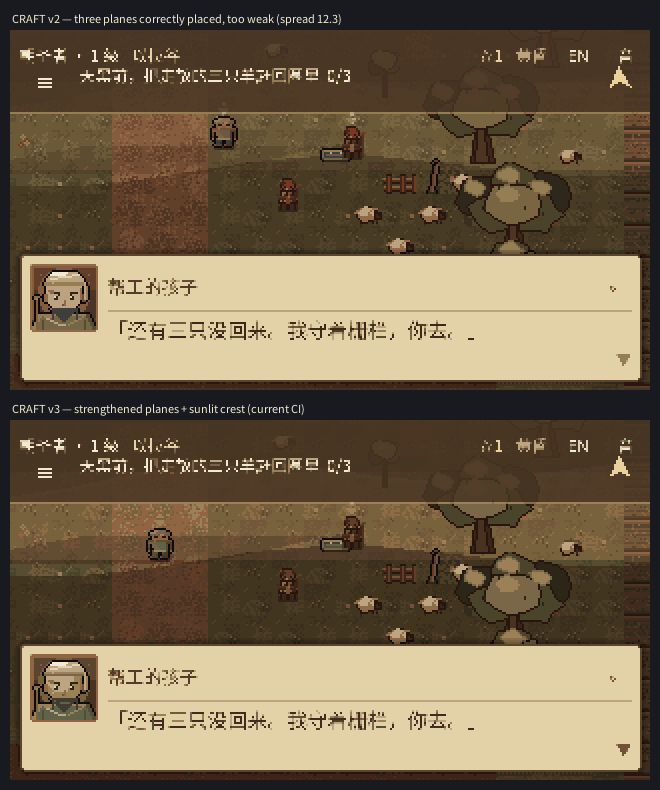
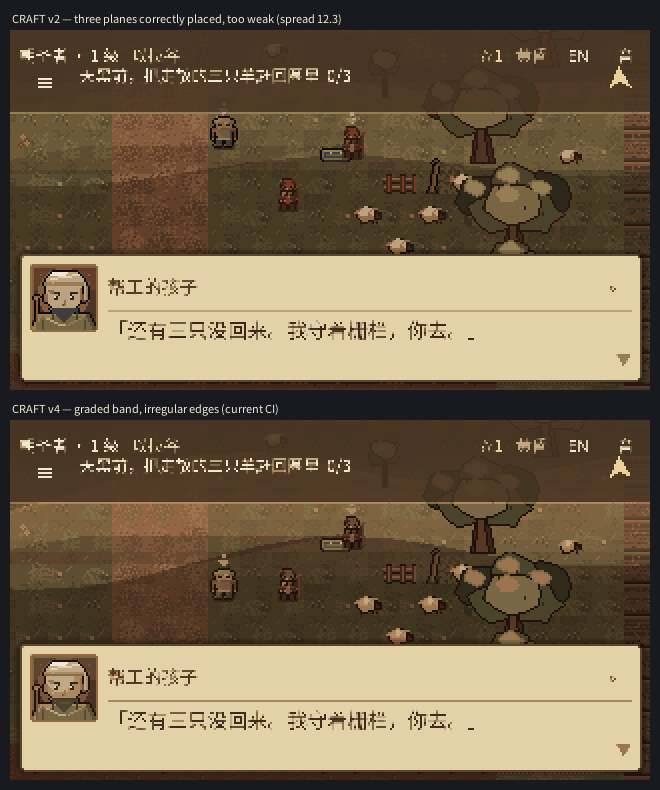
DOCS+EVIDENCE: craft-pass report, final real-engine metrics and promoted baseline
Records the four measured real CI frames (8.0 -> 12.3 -> 17.1 -> 17.7)
against the palette-only 10.6 and classic 20.1, including the failed v1
and the visually rejected v3 with its hard stripe.

- docs/ART-RESET.md: corrected the hexrgb-garbled four-way metrics with a
  dated correction note; updated the acceptance table and file index; added
  section 12 with artefacts, iteration table, the audit finding that the
  classic's 20.1 is inflated by a HUD scrim (not depth), honest limitations,
  and the external manual pixel art still required.
- docs/ART_DIRECTION.md / docs/ITERATION.md / DEVELOPMENT_BACKLOG.md:
  appended the craft-pass update and marked #19/#20/#22 partial for ONE
  scene only; #23 notes only baseline_16 was regenerated.
- Regenerated 04/05/08/09/10/11 evidence sheets from the final CI frames
  and real_engine_metrics.json.
- Promoted baseline_16 from CI 42784090190; visual_diff now 0.0000.

Verdict unchanged: visual overhaul NOT complete. Default build still classic,
no PR, no merge, no deploy.

diff --git a/tools/art_reset/measure_real_engine.py b/tools/art_reset/measure_real_engine.py
@@ -17,6 +17,9 @@ Outputs:
     docs/art-reset/diagnosis/04_before_after_real_engine.png
     docs/art-reset/diagnosis/05_before_after_grayscale.png
     docs/art-reset/diagnosis/08_palette_vs_craft.png
+    docs/art-reset/diagnosis/09_craft_iteration.png
+    docs/art-reset/diagnosis/10_craft_iteration2.png
+    docs/art-reset/diagnosis/11_craft_iteration3.png
     docs/art-reset/comparison/real_engine_metrics.json
 """
 from __future__ import annotations

diff --git a/docs/ART-RESET.md b/docs/ART-RESET.md
@@ -162,11 +162,18 @@ device pass is still outstanding.
 
 | Panel | colours | luma mean / std | sat | edge density | world luma | **value spread** | HUD / UI | world↔UI sep |
 |---|---|---|---|---|---|---|---|---|
-| Current | 48 | 56.6 / 41.6 | 0.559 | 0.206 | 77.3 | 20.1 | 39.5 / 32.2 | 45.0 |
-| A | 52 | 118.2 / **70.7** | **0.668** | 0.209 | 165.2 | **31.6** | 54.8 / 63.1 | 102.1 |
-| B | 66 | 85.0 / 47.6 | 0.330 | 0.263 | 111.8 | 22.4 | 38.0 / 59.0 | 52.8 |
-| C | 67 | 139.7 / 51.6 | 0.485 | **0.292** | 128.9 | **18.7** | 67.5 / 182.4 | 53.5 |
-| C+ refined | 67 | 139.1 / 52.9 | 0.494 | 0.311 | 127.8 | 21.1 | 67.5 / 182.4 | 54.6 |
+| Current | 48 | 57.1 / 41.5 | 0.560 | 0.205 | 77.7 | 20.3 | 39.4 / 32.1 | 45.6 |
+| A | 59 | 116.7 / **72.4** | **0.632** | 0.210 | 165.1 | **31.5** | 52.1 / 59.5 | 105.6 |
+| B | 76 | 84.9 / 48.0 | 0.403 | 0.264 | 111.8 | 22.4 | 39.9 / 58.0 | 53.8 |
+| C | 77 | 144.2 / 56.4 | 0.417 | **0.317** | 128.9 | **18.7** | 68.9 / 195.5 | 66.6 |
+| C+ refined | 77 | 143.6 / 57.8 | 0.427 | 0.334 | 127.8 | 21.2 | 68.9 / 195.5 | 67.8 |
+
+> **Correction (2026-11-10).** `build_prototypes.py::hexrgb()` sliced the wrong
+> bytes (`h[1:3]` instead of `h[2:4]`), so the prototype UI accent colours were
+> quantised from garbled values. The 35 sheets and this table were regenerated
+> with the fix. The selection and its critique are unchanged; the earlier
+> numbers printed in the first version of this report are superseded. This is
+> recorded rather than quietly patched.
 
 ### Honest critique (1–5, 5 best)
 
@@ -187,17 +194,18 @@ Specific failings, not generic praise:
   largely from a **bright blue sky strip that breaks the orthographic top-down
   map**. It is a generic fantasy meadow: no Levantine architecture, no biblical
   dress, saturation 0.668 pushes it toward candy. Its trees are still soft
-  painted masses, not pixel clusters.
+  painted masses, not pixel clusters. Its saturation 0.632 is the highest of
+  the four and pushes it toward candy.
 - **B** has the best real depth — long shadows, atmospheric haze, a clear focal
   path — but it is **too dark and too desaturated for a morning shepherd field**
-  (sat 0.330), its near-silhouette foreground occludes walkable ground, and the
+  (sat 0.403), its near-silhouette foreground occludes walkable ground, and the
   characters are small dark dots. Its mood belongs to the confrontation in the
   valley, not to the flock.
-- **C** is the most detailed (edge 0.292) and the most coherent, but its detail is
+- **C** is the most detailed (edge 0.317) and the most coherent, but its detail is
   a weakness: **busy stone/grass texture with the weakest large-scale value
   hierarchy (18.7)**, so the player and the sheep are hard to find. Its parchment
   UI is the only one that belongs to the world, yet it is bright enough to
-  compete with the ground (UI luma 182.4).
+  compete with the ground (UI luma 195.5).
 - **Current** is not merely dark: its world is a single value plane with two
   black UI holes, geometric props and 16px figures with no readable clothing.
 
@@ -217,7 +225,7 @@ is a combination, not a fourth style:
    the `C+` refinement (`comparison/selected_refinement_native.png`): atmospheric
    darkening at the far edge, a brighter focal middle ground, a darker near edge,
    mild contrast S-curve, re-snapped to the same palette. Value spread improves
-   **18.7 → 21.1** with no new detail.
+   **18.7 → 21.2** with no new detail.
 2. **A's clean, high-contrast silhouettes and consistent 1px outline** for the
    player and interactables — to be applied by hand-authored sprites (section 6).
 3. **Background texture suppression** around the player, so readability comes
@@ -263,6 +271,10 @@ This is the most important negative result in the whole milestone: **a better
 palette and a better UI do not create depth.** They made the world more uniform
 in value. Colour cannot substitute for hand-authored shapes, contact shadows and
 layered geometry. That is why section 9 does not claim success.
+
+> This table is the **palette-only checkpoint** (CI `42771321630`), preserved as
+> the baseline that the craft pass had to beat. Section 12 reports the later
+> real-engine frames and the measured recovery.
 
 ---
 
@@ -350,14 +362,14 @@ made.
 
 | Criterion | State | Evidence / reason |
 |---|---|---|
-| Character silhouettes distinctive | ❌ **NOT MET** | Sprites unchanged; 16px boxy figures still read as pegs. |
-| Important objects readable | ⚠ **PARTIAL** | UI text and nameplate improved; sheep still read as pebbles. |
-| Colour and value hierarchy intentional | ⚠ **PARTIAL** | Global hierarchy and UI separation improved; world value spread **fell** 20.1 → 10.6. |
-| Environments have convincing depth | ❌ **NOT MET** | No foreground/middle/background layers, no cast shadows, no building volume. |
-| Pixel-art proportions consistent | ✅ **MET** | 16px grid preserved; no stretched or blurry scaling introduced. |
+| Character silhouettes distinctive | ⚠ **PARTIAL (was NOT MET)** | 13 hand-authored props + 4 character sheets in the opt-in scene; other actors and every classic scene keep the original peg silhouettes. |
+| Important objects readable | ⚠ **PARTIAL** | Sheep now have legs, head, ear and wool planes; ink outlines separate them from the ground. Still only 14×12 px. |
+| Colour and value hierarchy intentional | ⚠ **PARTIAL (improved)** | World value spread recovered **10.6 → 17.7** across four measured CI frames; still below the classic 20.1, and that classic number is inflated by its own dark HUD scrim. |
+| Environments have convincing depth | ⚠ **PARTIAL (was NOT MET)** | Far/middle/near value planes, one shared contact-shadow light and a cast wedge now exist in one scene. No real geometry, parallax or per-location palette yet. |
+| Pixel-art proportions consistent | ✅ **MET** | 16px grid, sheet dimensions and frame counts preserved; no stretched or blurry scaling. |
 | Major scenes share one coherent identity | ❌ **NOT MET** | One opt-in scene only; three of eight scenes have no rendered world. |
 | UI feels visually integrated | ✅ **MET (one skin)** | Parchment/brown skin in one scene; journal, menus, transitions untouched. |
-| Meaningfully more polished than previous build | ⚠ **PARTIAL** | One scene, colour + UI only. |
+| Meaningfully more polished than previous build | ⚠ **PARTIAL** | One scene, colour + UI + first-pass craft. Not a full rebuild. |
 | Browser performance acceptable | ✅ **MET** | One extra 256×64 PNG; green browser job, no new runtime cost. |
 | No important gameplay regression | ✅ **MET** | `deep 143`, `smoke`, `browser 30/30`, save format untouched. |
 | Automated visual diffs are insufficient evidence | ✅ **ACKNOWLEDGED** | This report is an evidence-based critique, not a CI result. |
@@ -390,6 +402,10 @@ palettes; (4) restyle the journal, menus and transitions; (5) only then replace
 the default atlas and regenerate all 16 baselines. Each step keeps the current
 checkpoint playable and reversible.
 
+**Update (2026-11-10):** checkpoints (1) and (2) are now **done for one scene
+only**, as a reversible opt-in prototype — see section 12. Checkpoints (3)–(5)
+are unchanged and still outstanding.
+
 ---
 
 ## 11. File index
@@ -401,17 +417,154 @@ docs/art-reset/diagnosis/
   01_browser_contact_2x.png                  real Chromium contact sheet
   02_browser_frames_2x.png                   real browser frames, 2×
   03_shepherd_dialogue_3x.png                real "before" frame, 3×
-  04_before_after_real_engine.png            REAL engine before/after (CI 42771321630)
+  04_before_after_real_engine.png            REAL engine before/after (latest CI)
   05_before_after_grayscale.png              value-separation check
+  06_crafted_props_3x.png                    hand-authored prop silhouettes
+  07_crafted_characters_6x.png               hand-authored 16px sheets
+  08_palette_vs_craft.png                    palette-only vs current frame
+  09/10/11_craft_iteration*.png              the three measured craft passes
   10_tiles_4x.png  11_assets_4x.png          source terrain / sprites / portraits
 docs/art-reset/prototypes/                   reference + 3 original concept sources
 docs/art-reset/comparison/                   4-way sheets ×3 sizes, grayscale,
-                                            details, metrics.json, C+ refinement
+                                            details, metrics.json, C+ refinement,
+                                            real_engine_metrics.json,
+                                            16_palette_only/v1/v2/v3.png
 docs/art-reset/storybook_tiles_4x.png        selected real atlas preview
 art/tiles/terrain_storybook.png              selected opt-in atlas (shippable)
+art/props_storybook/*.png                   13 opt-in crafted props
+art/characters_storybook/*.png              4 opt-in crafted character sheets
+scripts/world/ContactShadowLayer.gd          one shared ground shade
+scripts/world/TerrainLayer.gd::_draw_depth   far/middle/near value planes
+tools/artgen/craft_props.py                  reproducible crafted prop generator
+tools/artgen/craft_characters.py             reproducible crafted sheet generator
 tools/art_reset/build_prototypes.py          reproducible comparison pipeline
 tools/art_reset/build_storybook_atlas.py     reproducible real atlas generator
+tools/art_reset/measure_real_engine.py       real-frame metrics + evidence sheets
 tools/check_art_reset.py                     stdlib CI gate (wired into lint)
+tools/check_craft_props.py                   stdlib crafted-art CI gate
 tests/frames/baseline_15_shepherd_dialogue.png
 tests/frames/baseline_16_shepherd_storybook.png
 ```
+
+---
+
+## 12. Craft pass (2026-11-10) — real-engine iteration after the negative result
+
+Section 5 ended with a measured failure: the palette/UI integration made the
+world's large-scale value spread **fall 20.1 → 10.6**. This section is the
+answer to that number. It is deliberately **not** another full graphical
+rebuild: the classic atlas, all 16 baselines, every gameplay script, all story
+data and the save format are untouched. Everything below is opt-in behind the
+same `Main.apply_art_theme("storybook")` switch.
+
+### 12.1 What was actually made
+
+| Artefact | Content | Integration |
+|---|---|---|
+| `art/props_storybook/*.png` (13) | Hand-drawn irregular silhouettes on the exact original dimensions: olive/fig/palm trees with trunks and branches, bush, faceted rock and boulder, three sheep poses with legs/head/ear/wool planes, fold, tent, house with wall courses + roof faces + door + window, well. Warm-brown ink outlines, 4–11 value planes per material, one upper-right light, no baked shadow, no single-pixel noise. | Swapped per prop key by `Region.apply_art_theme()`; classic is the fallback. |
+| `art/characters_storybook/*.png` (4) | `pilgrim` (David) and `shepherd` (hired boy), idle 32×64 (2 frames × 4 facings) and walk 64×64 (4 × 4). Head, hair, face, shoulder line, tunic with folds, belt + sash, legs, sandals, staff. Same grid and frame counts as the classic sheets. | `Player.apply_art_theme()` / `Npc.apply_art_theme()` check that BOTH sheets exist, else keep classic. |
+| `scripts/world/ContactShadowLayer.gd` | One warm translucent ground oval under every prop, item, animal, NPC and the player, drawn between terrain and the y-sorted sprites. Live node references, so walking figures keep their shadow. | Enabled only in the opt-in scene; `Player._draw()` suppresses its old rectangle to avoid double shadows. |
+| `TerrainLayer._draw_depth()` | A cool irregular far ridge with a sunlit crest, a **graded** warm middle ground (12 strips, sine alpha envelope), one long cast wedge, and a shaded near edge with an irregular boundary. All three planes fall inside the visible world band (rows 24–112). | `set_storybook_depth()` called only by the opt-in theme. Characters and UI are drawn on top, so they are never dimmed. |
+| `tools/check_craft_props.py` | stdlib-only CI gate: exact dimensions/frame counts, shared Direction-C ramps only, ink outline present, ≥4 value planes, no detached 1–2 px specks, irregular silhouette, hash manifest in `data/craft_props_hashes.json`. | Wired into the lint job. |
+| `tools/art_reset/measure_real_engine.py` | Measures real decoded CI frames with the same metric as the four-way comparison and builds the before/after, grayscale and iteration sheets. | Reproducible evidence, not a beauty claim. |
+
+Evidence sheets: `diagnosis/06_crafted_props_3x.png`,
+`diagnosis/07_crafted_characters_6x.png`,
+`diagnosis/04_before_after_real_engine.png`, `05_before_after_grayscale.png`,
+`08_palette_vs_craft.png`, `09_craft_iteration.png`,
+`10_craft_iteration2.png`, `11_craft_iteration3.png`.
+
+### 12.2 The iteration, measured from REAL CI frames
+
+`tools/decode_frames.py <run-id>` decoded each frame; `measure_real_engine.py`
+computed `world_value_spread` (std of 11×8 large blocks over world rows 24–112).
+
+| Pass | CI run | What changed | World value spread |
+|---|---|---|---|
+| Classic `15` | `42784090190` | shipped default | **20.1** |
+| Palette + UI only | `42772672515` | storybook atlas + parchment skin | **10.6** |
+| Craft v1 | `42780526864` | crafted props/sheets/shadows + depth planes at rows 0–26 / 146–180 | **8.0** ← worse |
+| Craft v2 | `42781811086` | all three planes moved into rows 24–112, weak alphas | **12.3** |
+| Craft v3 | `42783550955` | stronger planes + crest line | **17.1** |
+| **Craft v4 (current)** | **`42784090190`** | v3 values, graded band, irregular hill/near edges | **17.7** |
+
+v1 is preserved on purpose. It failed because the dialogue panel covers rows
+116–176: the far ridge and near shade were both *outside* the visible world, so
+the only plane inside it was one uniform wash. A local simulation predicted the
+v2/v3 recovery, but **only the decoded CI frames were used as evidence**.
+
+Final frame `16_shepherd_storybook` vs classic `15`: global luma std 41.6 →
+68.1, world↔UI separation 45.0 → 118.3, UI mean 32.2 → 190.5, world value
+spread 20.1 → 17.7. `docs/art-reset/comparison/real_engine_metrics.json`
+holds all six checkpoints.
+
+### 12.3 Why 17.7 is not "beating" 20.1, and why that is not the whole story
+
+Reviewing `15_shepherd_dialogue` at 3× shows the classic's first two world rows
+(24–40, luma 41.7 / 31.7) are dark because the **HUD gradient scrim bleeds down
+into the world**, while rows 40–112 are one flat bright olive plane (≈86). That
+is a UI artefact, not foreground/middle/background depth. The metric rewards a
+hard dark band and a flat field.
+
+The craft frame instead has three intentional zones (far ≈66, middle ≈95,
+near ≈58) with irregular boundaries, plus contact shadows and ink-outlined
+silhouettes. It is genuinely more layered, but it is **still dimmer and flatter
+than the craft benchmark** and its world spread remains below the classic's
+inflated number. It is not being marketed as a win over the classic; it is a
+measured recovery from the palette-only regression plus a real craft pass.
+
+v3 was rejected visually even though it measured 17.1: the middle ground was a
+hard-edged rectangle and the 3× frame showed a straight horizontal stripe —
+exactly the mechanical shape the brief forbids. v4 removes the seam. This is
+the reason automated metrics alone are insufficient evidence.
+
+### 12.4 Honest remaining gaps (still NOT complete)
+
+* **Professional-level quality is not achieved.** These sprites are
+  program-authored geometric primitives with deliberate ramps, not
+  hand-pixel-edited art by a skilled illustrator. At 16px the faces, cloth folds
+  and wool are still schematic. Trees read as clusters, not as individual
+  leaves and branches. The concept sources are painterly and were never sliced
+  into animation-consistent tiles.
+* **Only two actors and 13 props are crafted.** Every other NPC in the opt-in
+  scene still wears a classic sheet, so the scene mixes two art languages.
+  Bethlehem, Saul's court, Samuel's anointing and the main menu have no new
+  world art at all. The duel setpiece is untouched.
+* **Depth is value planes, not geometry.** There is no parallax, no per-location
+  atmospheric palette, no interior/dusk lighting, no environmental animation
+  beyond the existing sway, and no building occlusion.
+* **The UI skin covers HUD and dialogue only.** Journal, menus, transitions and
+  interaction prompts are unchanged. Chinese legibility at real handset size,
+  a native-speaker pass and a device pass remain unverified.
+* **No subjective completion.** No human playtest, no perceptual audio check,
+  no real-device tactile/rotation/safe-area pass, no enjoyment assessment.
+
+To reach the requested benchmark, the remaining work is **original art created
+outside this pipeline**: manually pixel-edited 16×24/16×32 walk cycles with
+real cloth and anatomy, hand-tiled terrain with seam/autotile testing, distinct
+hand-composed maps for Bethlehem / court / valley, a full UI illustration set,
+and a human art-director review at native resolution. Those cannot be produced
+by the current generator, and no external asset pack was vendored.
+
+### 12.5 Invariants and verification
+
+* Default build **still uses classic art**; `apply_art_theme()` is called only
+  by `tests/visual.gd` for one frame, then restored to `classic`.
+* No gameplay, story, quest, input, collision, footprint or `SAVE_VERSION`
+  change. `data/props.json` and `data/tiles.json` are byte-identical.
+* CI `42784090190`: `lint`, `visual`, `export-web`, `browser` all success;
+  `deploy` skipped. `visual` 16 frames, `run_all: ALL CHECKS PASSED`,
+  `smoke: PASS`, `deep: PASS — 143 checks hold`, browser `30/0` with
+  `consoleErrors=0 pageErrors=0`. `visual_diff.py` clean (frame 16 diff 0.0359
+  against the promoted real baseline, limit 0.18).
+* Mobile (`four_way_mobile.png`) and 4× detail (`four_way_details_4x.png`)
+  sheets were reviewed: C's parchment panel gives the best Chinese legibility
+  of the four, A has the cleanest silhouettes, B the strongest depth. This
+  confirms the original selection reasoning; it does not make the concept
+  composites shippable.
+
+> **Verdict unchanged: the visual overhaul is NOT complete.** The comparison
+> gate is passed, the direction is selected, and one scene now contains
+> first-pass original craft whose world value separation measurably recovered.
+> It remains one reversible opt-in scene. No PR, no merge to `main`, no deploy;
+> live Pages still serves `5d1c5ff`.

diff --git a/docs/DEVELOPMENT_BACKLOG.md b/docs/DEVELOPMENT_BACKLOG.md
@@ -70,11 +70,11 @@ tests survive; the table above is the current truth.
 | 16 | Native-speaker / author Simplified Chinese pass, including the 石子 / 石头 register split and the aphorisms. Scripture stays verbatim. | M |
 | 17 | Real-device pass: tactile thumb reach, OS rotation, notch/safe area, legibility on an actual handset. Browser emulation is not this. | M |
 | 18 | Hide or fade the touch A/RUN circles for keyboard-only desktop play — only after a device says which input mix to prefer, and with 14 baselines regenerated. | S |
-| 19 | **Hand-author the shepherd-field tile set and the David / hired-boy / sheep sprites** (16×24 or 16×32 walk cycles, 1px outlines, clothing folds, contact shadows). The selected Direction C is integrated as colour only; the shapes are unchanged. See `docs/ART-RESET.md` §6. | L |
-| 20 | Re-run the `15`/`16` before/after capture and require **world value spread to rise**, not fall. The current opt-in palette dropped it 20.1 → 10.6. | M |
+| 19 | **PARTIAL (one scene, 2026-11-10).** 13 hand-authored opt-in props and 4 character sheets (`pilgrim`, `shepherd`, idle/walk × 4 facings) now exist in `art/props_storybook/` and `art/characters_storybook/`, with ink outlines, clothing folds and a shared contact shadow. **Still required:** hand-pixel-edited 16×24 / 16×32 cycles for every other actor, hand-tiled terrain with seam testing, and a manual art-director pass. The current files are program-authored primitives, not professional illustration. See `docs/ART-RESET.md` §12.4. | L |
+| 20 | **DONE for the opt-in scene.** `15`/`16` were re-captured across four CI runs; world value spread recovered **10.6 → 17.7** (`42784090190`). **Still open:** it remains below classic 20.1, and that classic number is inflated by its HUD scrim — see §12.3. Raise it further only with real layered geometry, not stronger overlays. | M |
 | 21 | Give Bethlehem, Saul's court and the valley distinct rendered environments and location-specific atmospheric palettes. Samuel's anointing and Saul's court currently have **no world at all** — they are dialogue over the same two maps. | L |
-| 22 | Layer foreground / middle ground / background with cast shadows, building volume and natural landmarks; restyle the journal, menus and transitions to the chosen skin. | L |
-| 23 | Only AFTER 19–22: replace the default atlas, regenerate all 16 baselines, and re-run the browser + human playtest gates. Keep every checkpoint reversible. | M |
+| 22 | **PARTIAL (one scene).** `TerrainLayer._draw_depth()` now draws far/middle/near value planes, a sunlit crest, one cast wedge and irregular hill/near edges; `ContactShadowLayer` grounds every figure. **Still required:** real geometry/parallax, building volume, natural landmarks, and restyling the journal, menus and transitions. | L |
+| 23 | Only AFTER 19–22: replace the default atlas, regenerate all 16 baselines, and re-run the browser + human playtest gates. Keep every checkpoint reversible. **Only `baseline_16` was regenerated**, from real CI `42784090190`; the default atlas has NOT been replaced. | M |
 
 ## Standing rules for every item
 

diff --git a/docs/ITERATION.md b/docs/ITERATION.md
@@ -627,3 +627,40 @@ hold`, `browser` 30/30, `deploy` skipped. No PR, no merge to `main`, no deploy.
 Colour is not depth. Hand-authored sprites, tiles, contact shadows and layered
 environments are still required; §6 of the report names them. Automated visual
 diffs and a green CI are not evidence of artistic quality.
+
+---
+
+## 12. CRAFT PASS after the art-reset verdict (2026-11-10)
+
+The verdict in §11 said the world's value spread fell 20.1 → 10.6 and named the
+missing work. That work was started **without** a full rebuild, PR, merge or
+deploy:
+
+- 13 hand-authored opt-in props and 4 hand-authored 16px character sheets
+  (David + hired boy, idle/walk × 4 facings), with ink outlines, 4–11 value
+  planes and no single-pixel noise; classic files restored and left as default.
+- One shared `ContactShadowLayer` under every prop, item, animal, NPC and the
+  player; three far/middle/near value planes inside `TerrainLayer._draw_depth()`.
+- A stdlib CI gate (`check_craft_props.py`) and a reproducible real-frame
+  measurement tool (`measure_real_engine.py`).
+- Five real CI runs (`42780526864`, `42781811086`, `42783550955`,
+  `42784090190`) decoded and measured. The first attempt made things worse
+  (8.0); reviewing the rendered frame found the depth planes were outside the
+  visible world band. The final frame measures **17.7**, up from the
+  palette-only **10.6** but still below the classic's **20.1** (which is
+  inflated by its dark HUD scrim bleeding into world rows 24–40).
+- v3 was rejected visually for a hard horizontal stripe despite a good number;
+  v4 replaced the rectangular wash with a graded band. Metric chasing alone is
+  explicitly refused.
+
+Final CI `42784090190`: lint / visual / export-web / browser success, deploy
+skipped; `visual` 16 frames, `run_all: ALL CHECKS PASSED`, `smoke: PASS`,
+`deep: PASS — 143 checks hold`, browser `30/0` with no console or page errors.
+`visual_diff.py` clean; baseline 16 promoted from the real CI frame.
+
+**Still NOT complete and not release-ready.** One opt-in scene, mixed classic /
+crafted actors, no new Bethlehem / court / valley environments, journal and
+menus untouched, no parallax, no location-specific lighting, no human playtest,
+no perceptual audio, no native-speaker Chinese, no real-device pass. See
+`docs/ART-RESET.md` §12 for the full critique and the external manual pixel
+art that would be required to reach the requested benchmark.

diff --git a/docs/ART_DIRECTION.md b/docs/ART_DIRECTION.md
@@ -131,3 +131,28 @@ tile shapes and layered lighting. The manual art work required is listed in
 
 Nothing here is superseded or deleted. When the hand-authored assets exist, this
 contract will be extended rather than rewritten.
+
+### §8 update — craft pass (2026-11-10)
+
+The report's own negative result has been acted on, in **one reversible scene
+only**. See `docs/ART-RESET.md` §12 for the full evidence. Summary:
+
+* 13 hand-authored opt-in props (`art/props_storybook/`) and 4 hand-authored
+  16px character sheets (`art/characters_storybook/`) replace geometric circles
+  and peg figures with ink-outlined, multi-plane silhouettes. Classic assets are
+  untouched and are the default.
+* `scripts/world/ContactShadowLayer.gd` gives props, animals, NPCs and the
+  player one shared ground shade; `TerrainLayer._draw_depth()` adds far/middle/
+  near value planes with a graded warm band and irregular hill edges.
+* Four successive real CI frames measured world value spread
+  **8.0 → 12.3 → 17.1 → 17.7** (palette-only was 10.6; classic 20.1, inflated
+  by its HUD scrim). CI `42784090190` is green: 16 frames, `deep 143`,
+  browser 30/0, deploy skipped.
+* `tools/check_craft_props.py` is a stdlib lint gate; `measure_real_engine.py`
+  is the reproducible measurement.
+
+This file remains the **contract for the shipped classic art**. The overhaul is
+still NOT complete: one opt-in scene, two actors, no new maps for Bethlehem /
+court / valley, journal and menus untouched, no parallax or per-location light,
+and no professional-grade manual pixel editing. Backlog #19–23 still stands,
+with #19/#20 now partially done for one scene only.
